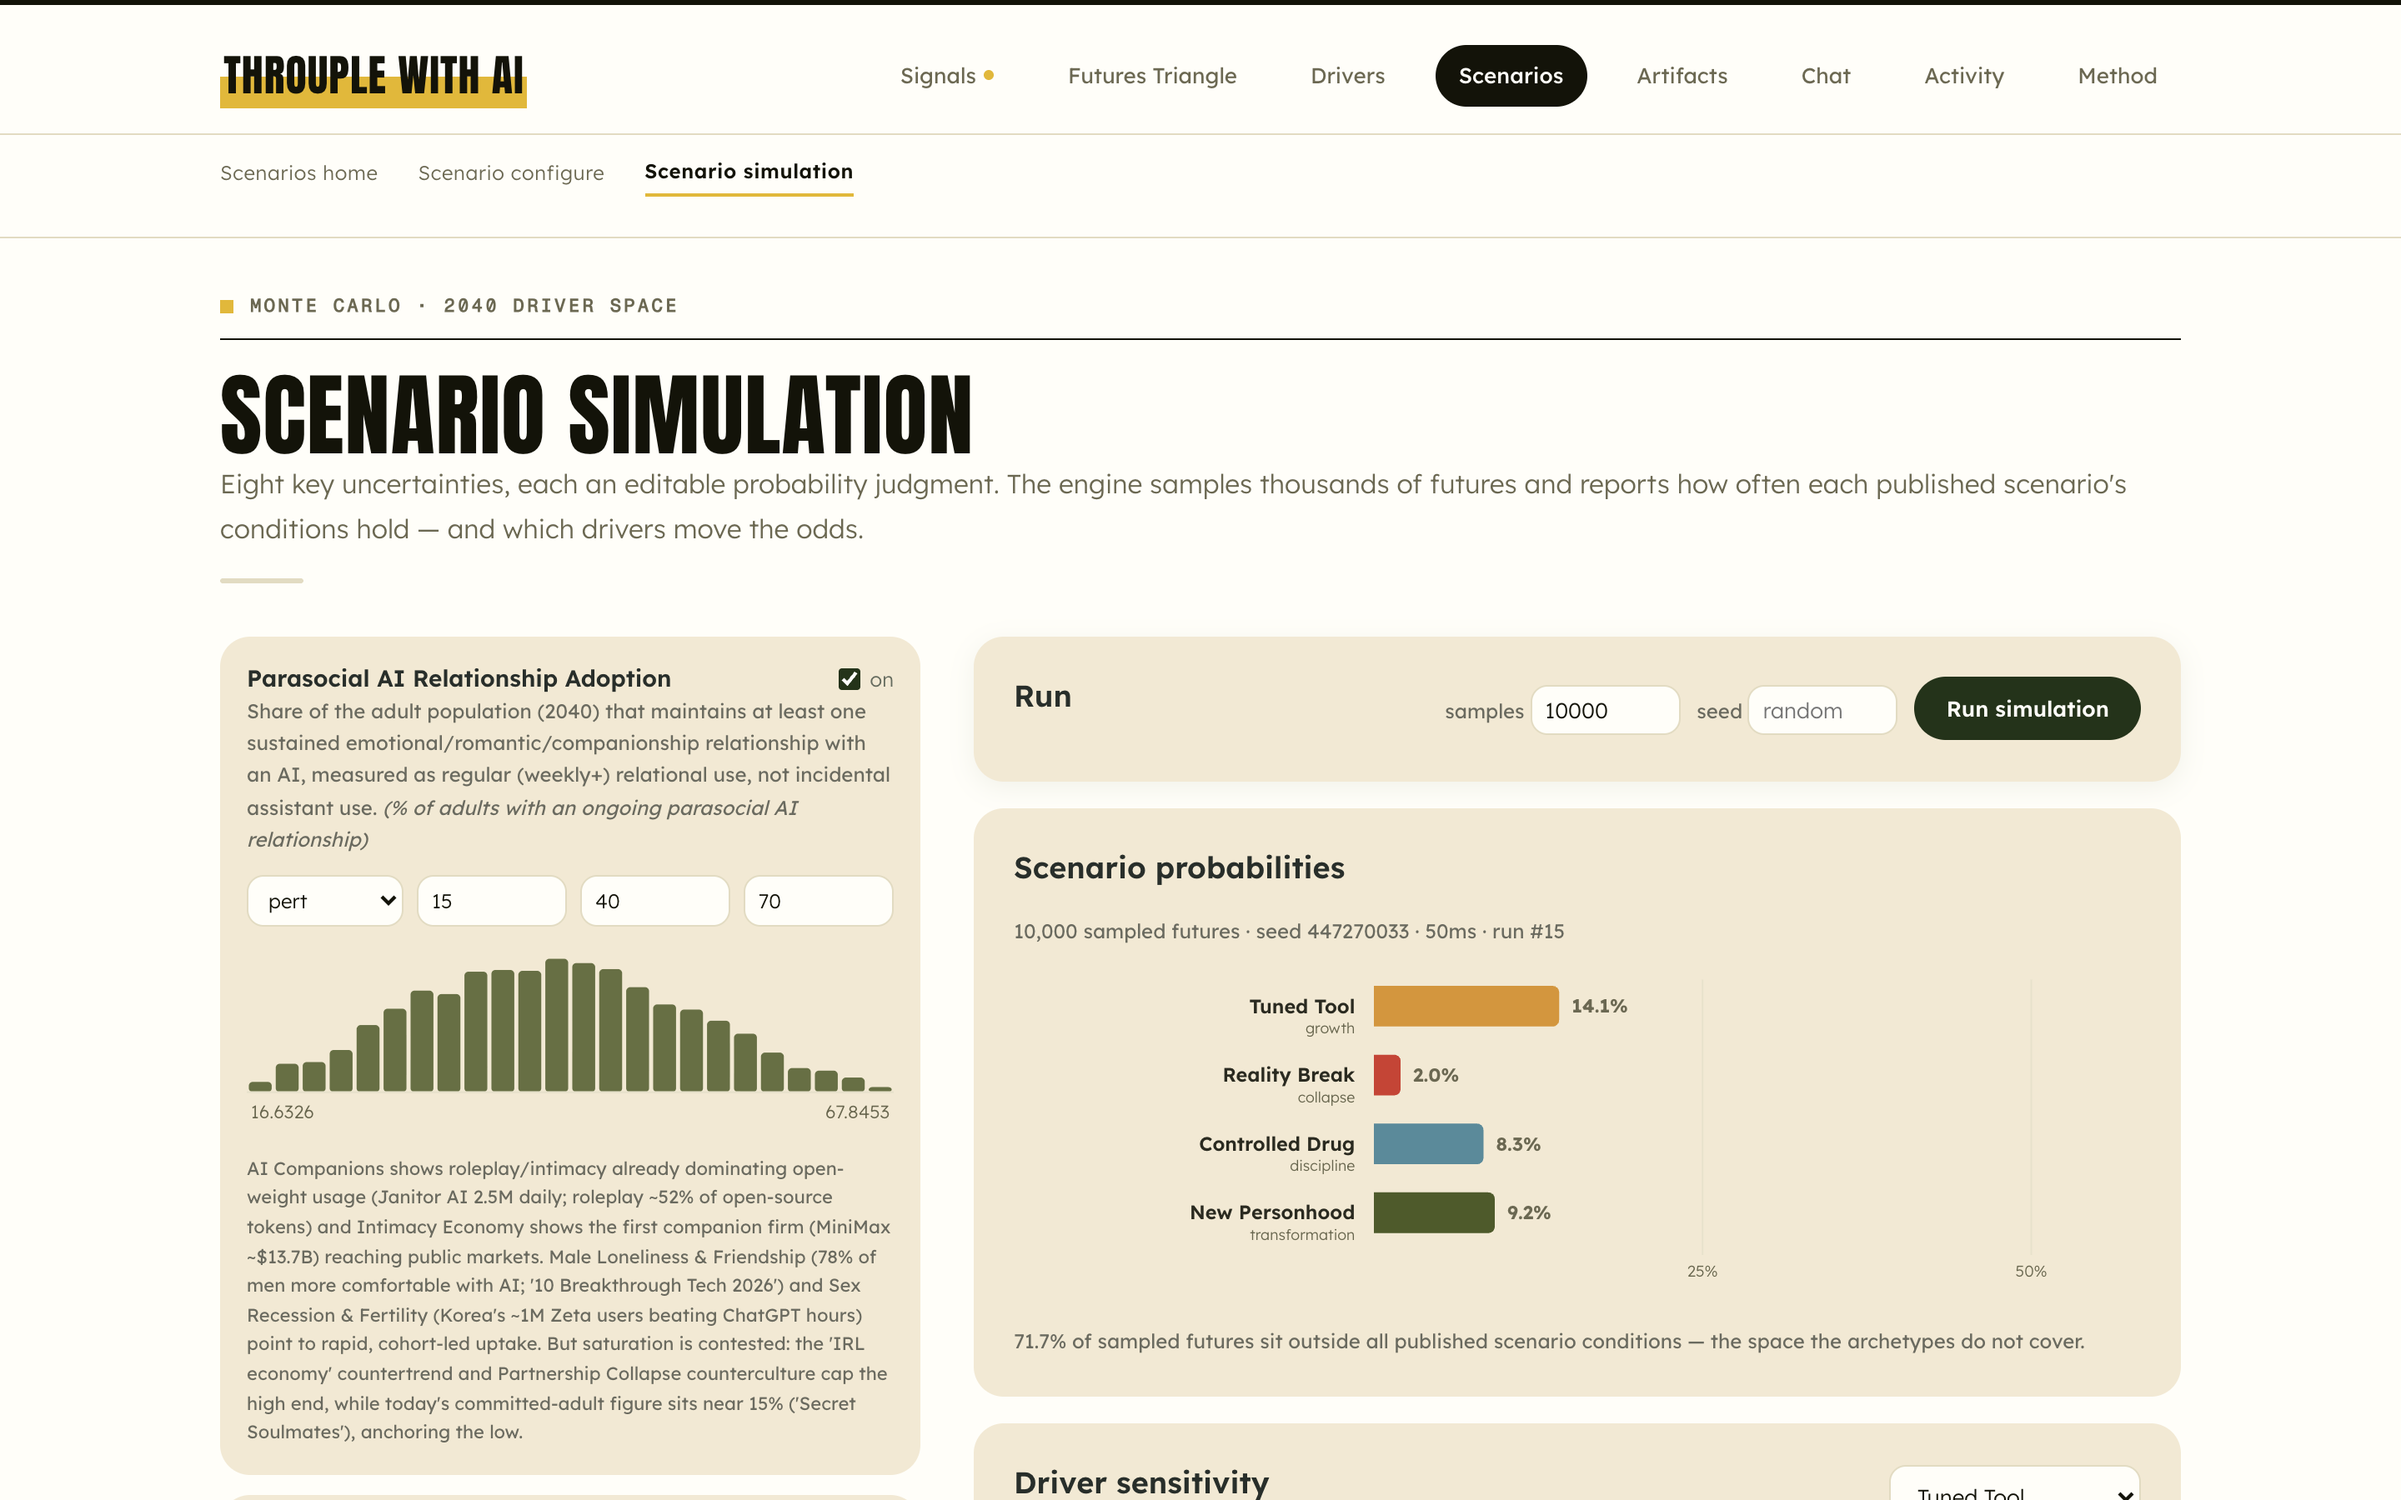
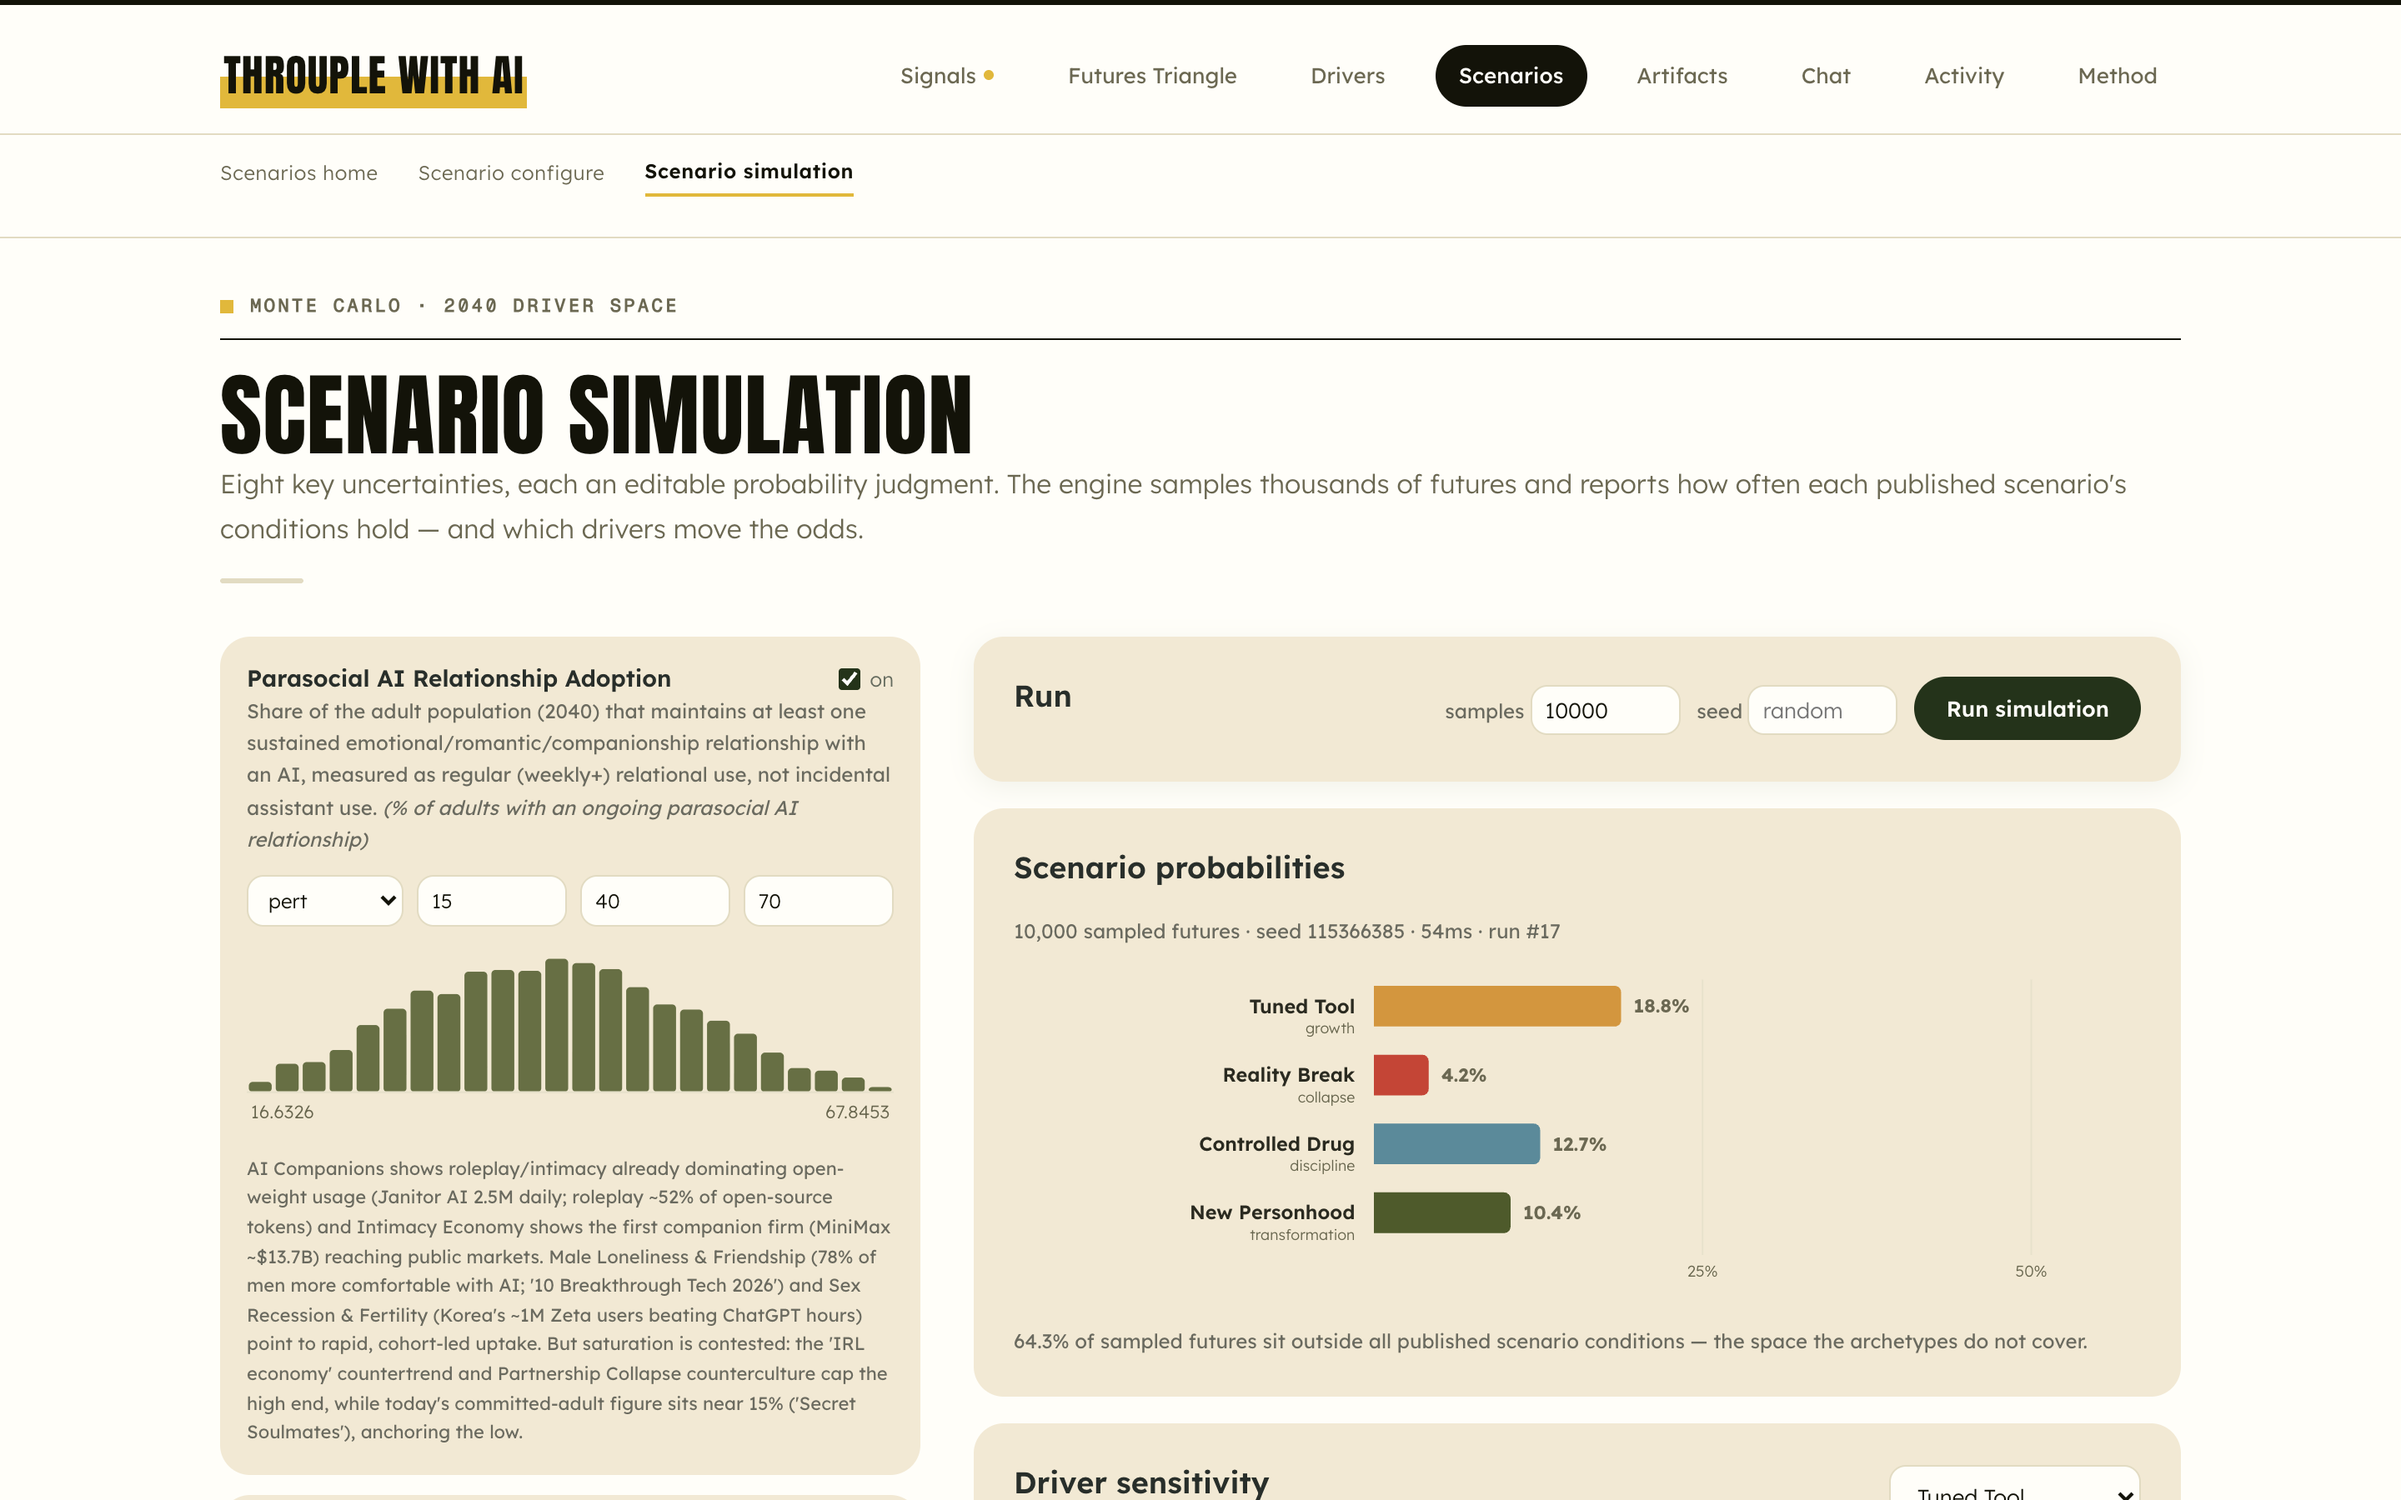
Scenario conditions returned to two signature half-spaces
Each published scenario carried three ANDed conditions, which in an
eight-driver space claims only a thin slab — 90% of unclaimed futures
were failing exactly one condition of a scenario they otherwise met.
Each scenario now keeps the two conditions that make it that future
and drops the one that follows from them:

  Tuned Tool      adoption >=40 AND legitimacy >=55   (dropped governance)
  Reality Break   harm >=65 AND displacement >=60     (dropped prosocial)
  Controlled Drug governance >=60 AND prosocial >=50  (dropped displacement)
  New Personhood  embodiment >=60 AND legitimacy >=60 (dropped governance)

Odds move 14.4/2.3/8.2/9.0 -> 18.8/4.4/12.7/10.6; residual 71.7% ->
63.5%. Method's disclosure updated: it already claimed two half-spaces
while the data had drifted to three, so the page and the platform now
agree, with the drift and its correction recorded. Deck screenshot
retaken.

diff --git a/server/public/reference.html b/server/public/reference.html
@@ -131,7 +131,7 @@
             <div class="iceberg-panel" id="icebergPanel" aria-live="polite"></div>
           </div>
         </div>
-        <div class="tstep"><span class="n">3</span><div><h4>Citations and conditions</h4><p>The draft must name the 8–15 signals that anchored it — real IDs from the pack, inspectable on the scenario page — and declare its <em>driver conditions</em>: the region of driver space where this future holds (for instance, "companion adoption ≥ 25% and regulation stringency ≤ 55"). Those conditions are the scenario's handshake with the simulation. A disclosed method finding: first drafts proposed narrow four-condition boxes whose joint probability collapsed below 1% — 98.9% of sampled futures fit no scenario. The conditions were reshaped by hand to two signature half-spaces per scenario, and the drafting prompt now targets 5–35% probability mass. Published probabilities depend on this reshaping, which is why it is disclosed.</p></div></div>
+        <div class="tstep"><span class="n">3</span><div><h4>Citations and conditions</h4><p>The draft must name the 8–15 signals that anchored it — real IDs from the pack, inspectable on the scenario page — and declare its <em>driver conditions</em>: the region of driver space where this future holds (for instance, "companion adoption ≥ 25% and regulation stringency ≤ 55"). Those conditions are the scenario's handshake with the simulation. A disclosed method finding: first drafts proposed narrow four-condition boxes whose joint probability collapsed below 1% — 98.9% of sampled futures fit no scenario. The conditions were reshaped by hand to two signature half-spaces per scenario, and the drafting prompt now targets 5–35% probability mass. The set drifted back to three conditions each during the driver recomposition, pushing the residual to 87.6%; on 28 July 2026 each scenario was returned to its two defining conditions — the ones that make it that future rather than the ones that follow from it — and the dropped condition is recorded for each. Published probabilities depend on this reshaping, which is why it is disclosed.</p></div></div>
         <div class="tstep"><span class="n">4</span><div><h4>Human authorship</h4><p>Everything lands as a <em>draft</em>. Every layer, the narrative, and the conditions are edited by the human author before publishing; only publishing makes a scenario real to the rest of the platform — it builds the scenario's embedding, admitting it to the chat's retrieval and the simulation's count — and the reviewed set ships as seed data so a fresh deployment restores it verbatim. The four live scenarios were all reshaped by hand after drafting.</p></div></div>
       </section>
 
